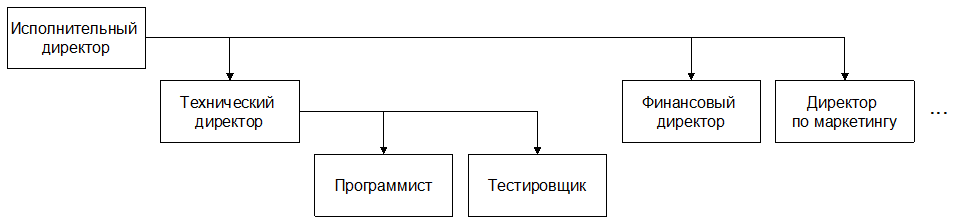
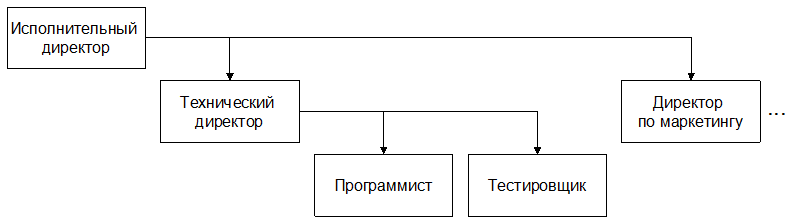
Пример оргструктуры стал короче

diff --git a/_Диссертация.html b/_Диссертация.html
@@ -1118,7 +1118,7 @@
 
 <p>Контроль &ndash; процедура оценивания соответствия путём наблюдения и суждений, сопровождаемых соответствующими измерениями, испытаниями или калибровкой <a href="#a-gost-9000">[14]</a>. Контроль представляет собой неотъемлемую часть процесса принятия и реализации управленческого решения. С помощью контроля можно оценить правильность решений и выявить потребность в корректировке. Основная цель контроля &ndash; обеспечение выполнения плановых показателей и повышение общей эффективности планирования <a href="#a-mazur">[12, стр. 559]</a>.</p>
 
-<p>Контроль осуществляется на основе фактических результатов. Вспомогательным инструментом контроля является прогноз &ndash; система аргументированных представлений о будущем состоянии организации и её окружения <a href="#a-vesnin">[11, стр. 384]</a>. Прогноз показывать возможное будущее состояние исследуемого объекта. В качестве объектов прогноза могут выступать процессы, явления, события, их качественные и количественные параметры. В области УП могут быть интересны прогнозы выполнения проектов, в т. ч. в случае наступления рисков, с целью выработки и принятия управленческих решений.</p>
+<p>Контроль осуществляется на основе фактических результатов. Вспомогательным инструментом контроля является прогноз &ndash; система аргументированных представлений о будущем состоянии организации и её окружения <a href="#a-vesnin">[11, стр. 384]</a>. Прогноз показывает возможное будущее состояние исследуемого объекта. В качестве объектов прогноза могут выступать процессы, явления, события, их качественные и количественные параметры. В области УП могут быть интересны прогнозы выполнения проектов, в т. ч. в случае наступления рисков, с целью выработки и принятия управленческих решений.</p>
 
 <p>Контроль должен быть всеохватывающим, т. е. держать в поле зрения основные сферы деятельности организации и процессы, протекающие в ней, связанные с принятием и реализацией решений. Но контроль не должен быть тотальным, т. е. по каждому событию. Собираемой и анализируемой информации для контроля должно быть достаточно для получения объективной картины ситуации.</p>
 
@@ -1214,7 +1214,6 @@
 <th>Технический директор</th>
 <th>Программист</th>
 <th>Тестировщик</th>
-<th>Финансовый директор</th>
 <th>Директор по маркетингу</th>
 <th>&hellip;</th>
 </tr>
@@ -1226,7 +1225,6 @@
 <td>Исполнитель</td>
 <td>Исполнитель</td>
 <td>Функциональный руководитель</td>
-<td></td>
 <td>&hellip;</td>
 </tr>
 <tr>
@@ -1235,13 +1233,11 @@
 <td></td>
 <td>Исполнитель</td>
 <td></td>
-<td></td>
 <td>Руководитель проекта</td>
 <td>&hellip;</td>
 </tr>
 <tr>
 <td>&hellip;</td>
-<td></td>
 <td></td>
 <td></td>
 <td></td>

diff --git a/Глава 1/Общие требования к ИСУП/Общие функции менеджмента.md b/Глава 1/Общие требования к ИСУП/Общие функции менеджмента.md
@@ -6,7 +6,7 @@
 
 Контроль -- процедура оценивания соответствия путём наблюдения и суждений, сопровождаемых соответствующими измерениями, испытаниями или калибровкой [cite: gost-9000]. Контроль представляет собой неотъемлемую часть процесса принятия и реализации управленческого решения. С помощью контроля можно оценить правильность решений и выявить потребность в корректировке. Основная цель контроля -- обеспечение выполнения плановых показателей и повышение общей эффективности планирования [cite: mazur, стр. 559].
 
-Контроль осуществляется на основе фактических результатов. Вспомогательным инструментом контроля является прогноз -- система аргументированных представлений о будущем состоянии организации и её окружения [cite: vesnin, стр. 384]. Прогноз показывать возможное будущее состояние исследуемого объекта. В качестве объектов прогноза могут выступать процессы, явления, события, их качественные и количественные параметры. В области УП могут быть интересны прогнозы выполнения проектов, в т. ч. в случае наступления рисков, с целью выработки и принятия управленческих решений.
+Контроль осуществляется на основе фактических результатов. Вспомогательным инструментом контроля является прогноз -- система аргументированных представлений о будущем состоянии организации и её окружения [cite: vesnin, стр. 384]. Прогноз показывает возможное будущее состояние исследуемого объекта. В качестве объектов прогноза могут выступать процессы, явления, события, их качественные и количественные параметры. В области УП могут быть интересны прогнозы выполнения проектов, в т. ч. в случае наступления рисков, с целью выработки и принятия управленческих решений.
 
 Контроль должен быть всеохватывающим, т. е. держать в поле зрения основные сферы деятельности организации и процессы, протекающие в ней, связанные с принятием и реализацией решений. Но контроль не должен быть тотальным, т. е. по каждому событию. Собираемой и анализируемой информации для контроля должно быть достаточно для получения объективной картины ситуации.
 

diff --git a/Глава 1/Общие требования к ИСУП/Организационная структура.md b/Глава 1/Общие требования к ИСУП/Организационная структура.md
@@ -21,10 +21,10 @@
 
 Таблица 1. Пример организационной структуры в виде матрицы
 
-Проекты | Исполнительный директор | Технический директор | Программист | Тестировщик | Финансовый директор | Директор по маркетингу | ...
----|---|---|---|---|---|---|---
-Проект А | Куратор | Руководитель проекта | Исполнитель | Исполнитель | Функциональный руководитель |  | ...
-Проект Б | Куратор |  | Исполнитель |  |  | Руководитель проекта | ...
+Проекты | Исполнительный директор | Технический директор | Программист | Тестировщик | Директор по маркетингу | ...
+---|---|---|---|---|---|---
+Проект А | Куратор | Руководитель проекта | Исполнитель | Исполнитель | Функциональный руководитель | ...
+Проект Б | Куратор |  | Исполнитель |  | Руководитель проекта | ...
 ... |
 
 Невовлечённые в проекты подразделения отображаются отдельно от описанной матрицы. Для управления проектом (проектами) может быть сформировано подразделение в компании [cite: mazur, стр. 225].
